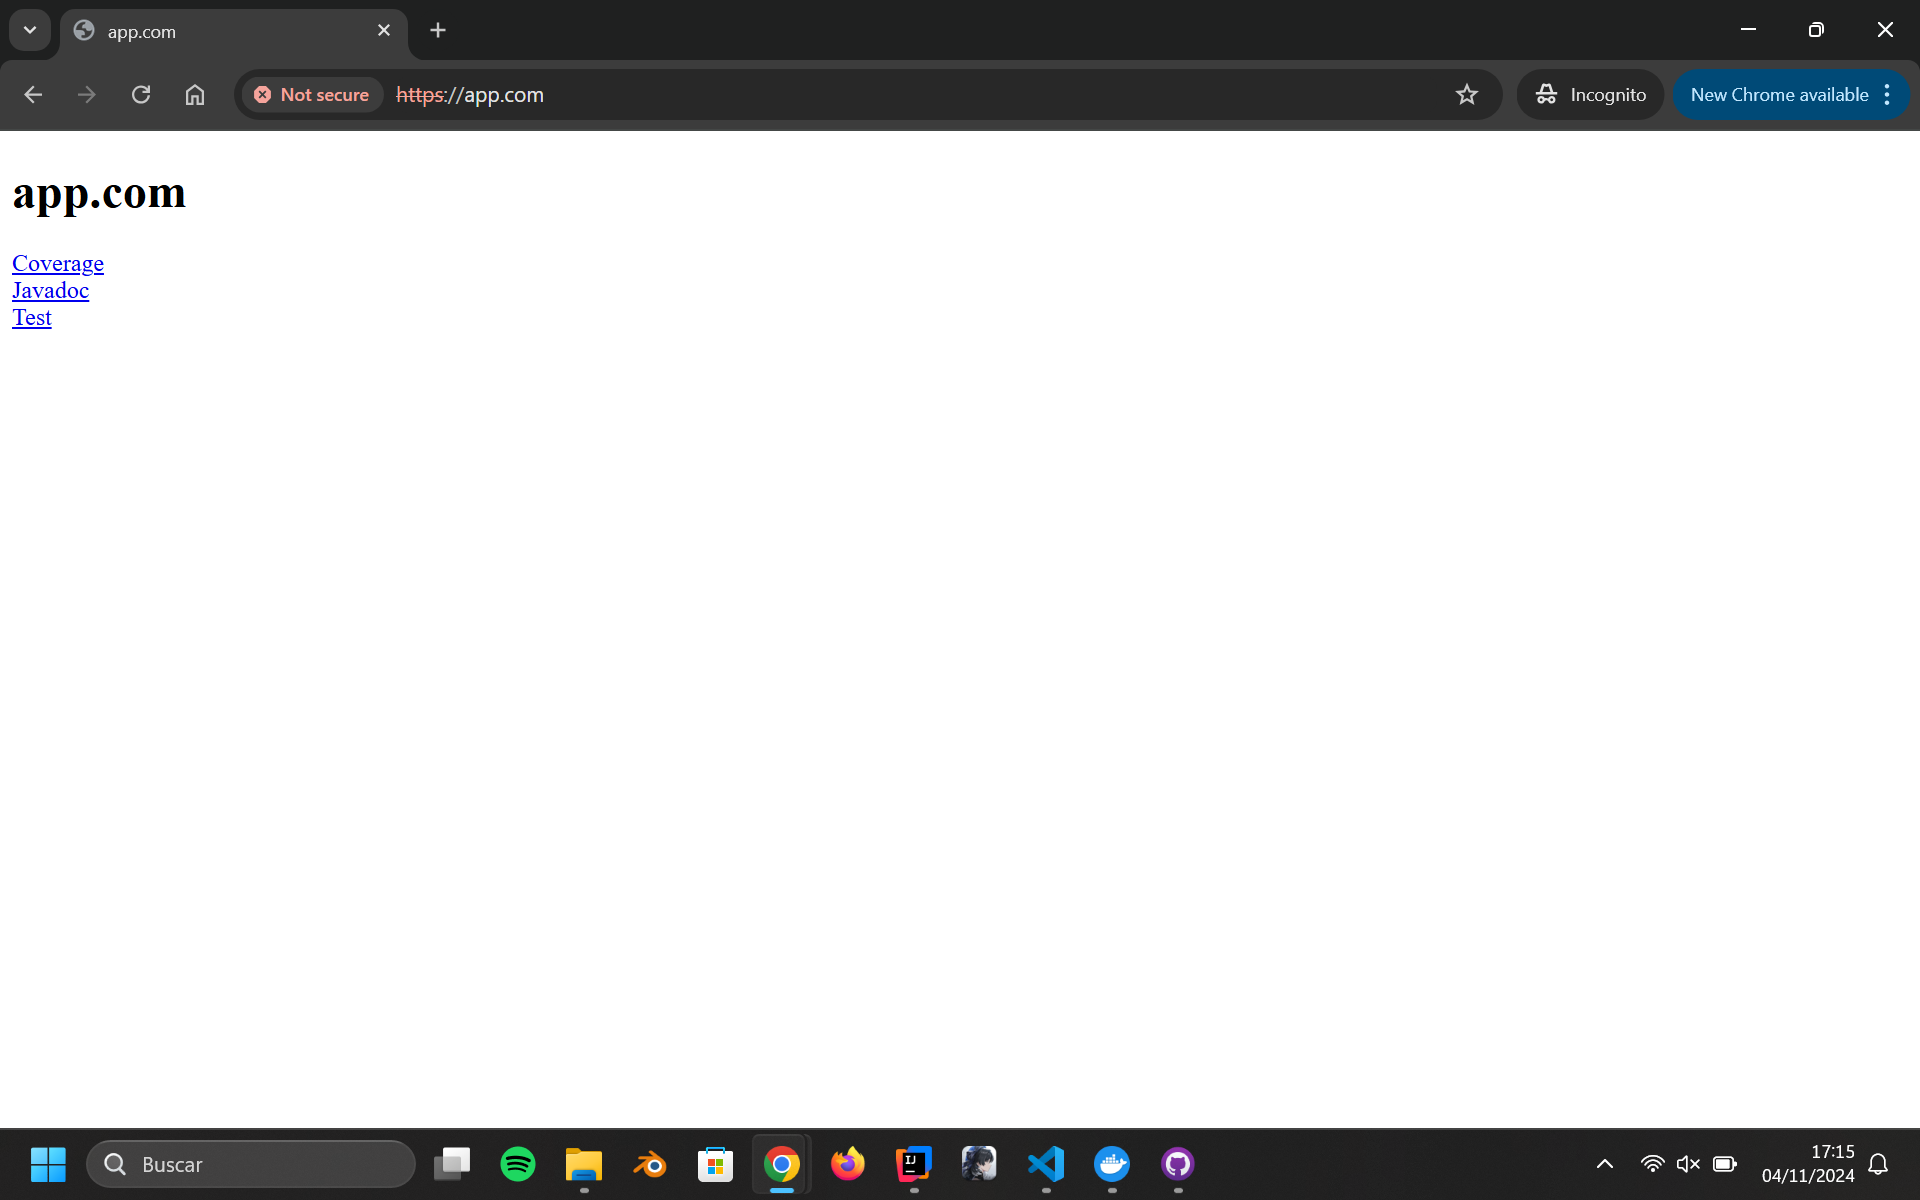
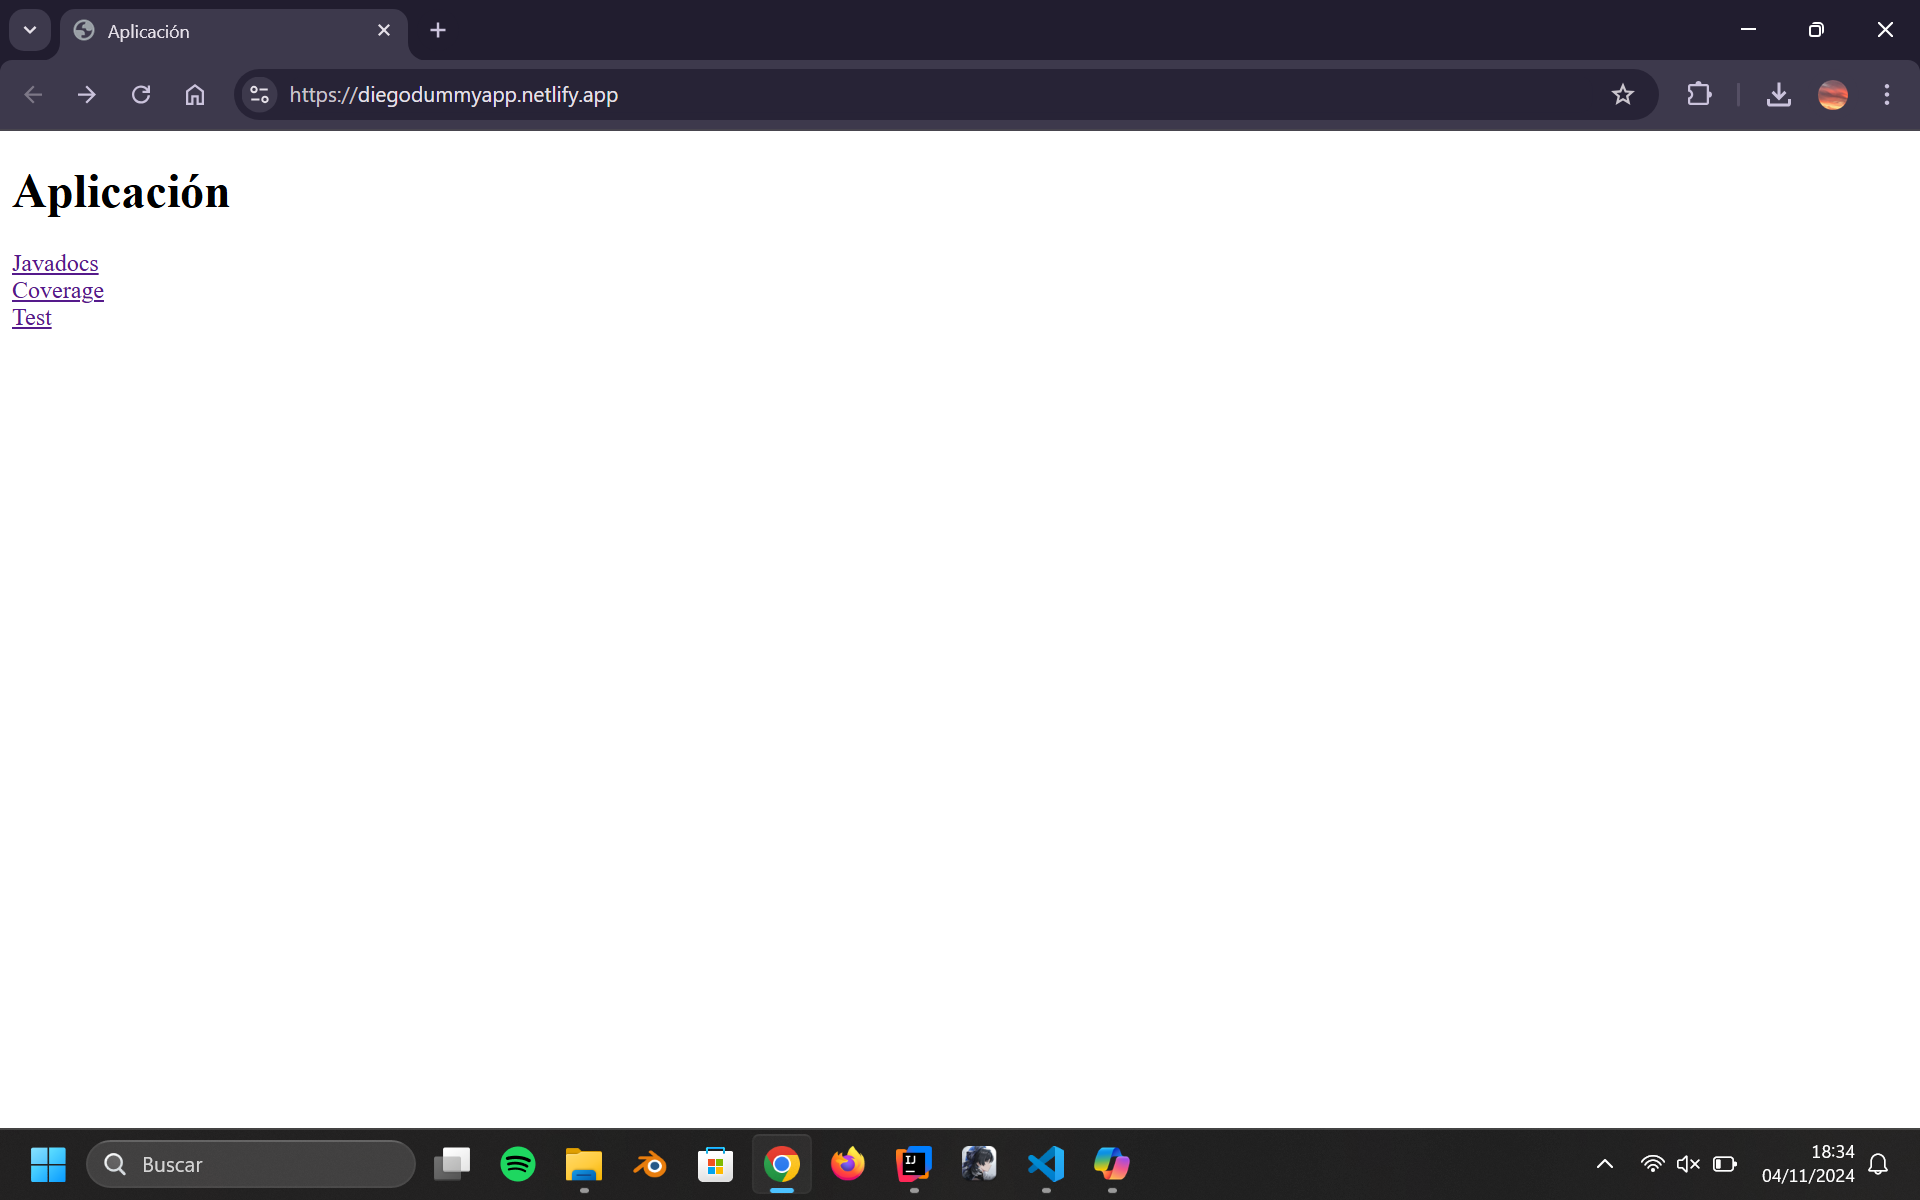
Final final commit

diff --git a/README.md b/README.md
@@ -21,24 +21,24 @@ Esos son:
 
 ### Capturas
 
-#### app.com
+#### diegodummyapp.netlify.app
 
 ![app.com](./screenshots/app.png)
 
 <br/>
 
-#### app.com/docs
+#### /docs/
 
 ![app.com](./screenshots/docs.png)
 
 <br/>
 
-#### app.com/coverage
+#### /coverage/
 
 ![app.com](./screenshots/coverage.png)
 
 <br/>
 
-#### app.com/test
+#### /test/
 
 ![app.com](./screenshots/tests.png)
